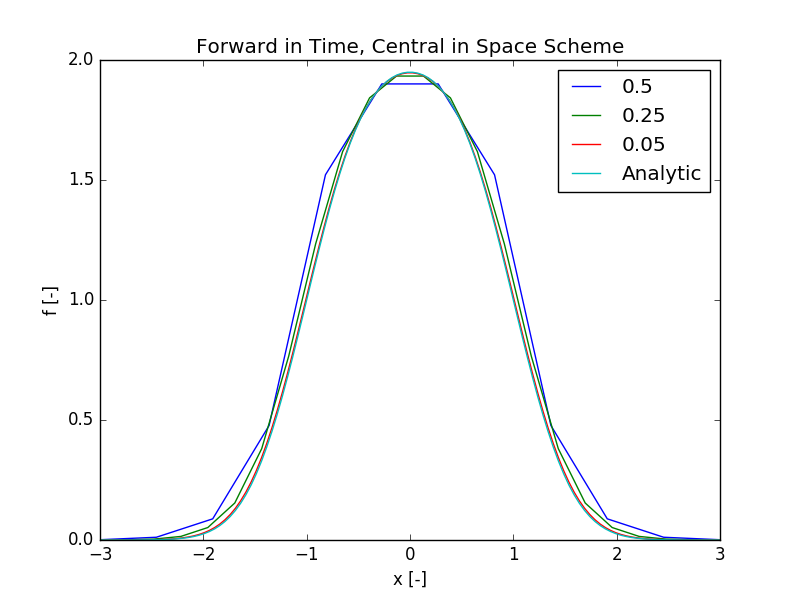
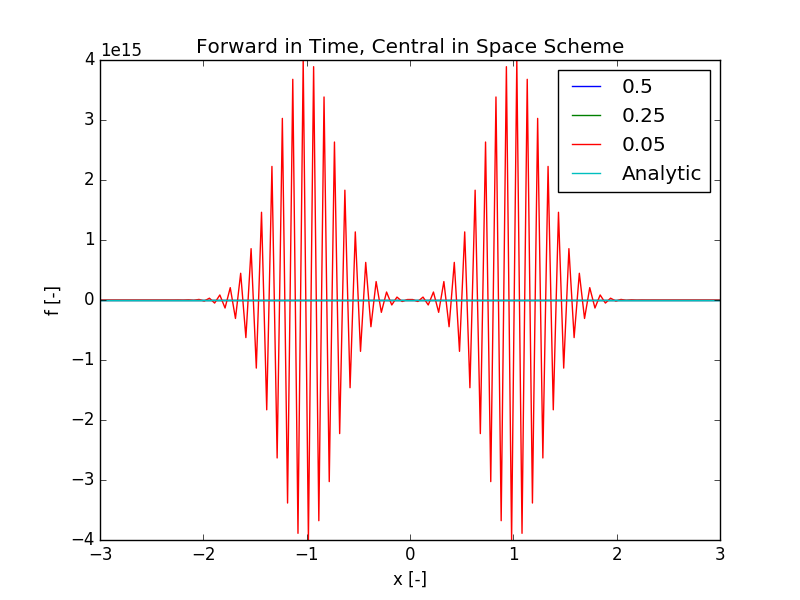
both problems complete/correct

diff --git a/HW05/problem2.py b/HW05/problem2.py
@@ -24,7 +24,11 @@ def make_A_back(n, dx, dt):
     data = np.hstack((c1*e, a1*e, c1*e)).T
     diags = np.array((-1, 0, 1))
     sp_array = scipy.sparse.spdiags(data, diags, n, n).toarray()
-
+    sp_array[0][0] = 1
+    sp_array[0][1:] = 0
+    sp_array[-1][-1] = 1
+    sp_array[-1][:-1] = 0
+    
     return sp_array
 
 def make_b_array_back(n, dt):
@@ -53,7 +57,6 @@ def run_btcs_calc(dx, dt):
     x = np.linspace( domain[0], domain[1], n)
     b_init = make_b_array_back(n, dt)
     A = make_A_back(n, dx, dt)
-
     f.append(solve_matrix(A, b_init)[0])
 
     for i in range(0, len(times)):
@@ -83,8 +86,8 @@ def run_comparison(dt=default_dt):
     fa = get_analytic_solution(x, 1e2)
     
     analytic = (x, fa)
-    forward = (x, f_forward[time_idx])
-    back = (x, f_back[time_idx])
+    forward = (x, f_forward[-1])
+    back = (x, f_back[-1])
 
     return [analytic, forward, back]
 
@@ -94,10 +97,11 @@ def plot(data):
     plt.plot(data[1][0], data[1][1], label='FTCS')
     plt.plot(data[2][0], data[2][1], label='BTCS')
     plt.legend()
-    plt.title("Backward in Time, Central in Space Scheme")
+    plt.title("Comparing FTCS and BTCS to the exact solution\
+               dx = 0.05 dt = 1.0")
     plt.xlabel('x [-]')
     plt.ylabel('f [-]')
-    plt.savefig("problem2.png")
+    plt.savefig("problem2a.png")
     plt.show()
 
 if __name__ == '__main__':

diff --git a/HW05/problem1.py b/HW05/problem1.py
@@ -16,10 +16,13 @@ def make_A(n, alpha):
     """Produce sparse diagonal matrix for algorithm testing.
     """
     e = np.ones((n, 1))
-    data = np.hstack((-alpha * e, (1 + 2*alpha)*e, -alpha * e)).T
+    data = np.hstack((alpha * e, (1 - 2*alpha)*e, alpha * e)).T
     diags = np.array((-1, 0, 1))
     sp_array = scipy.sparse.spdiags(data, diags, n, n).toarray()
-
+    sp_array[0][0] = 1
+    sp_array[0][1:] = 0
+    sp_array[-1][-1] = 1
+    sp_array[-1][:-1] = 0
     return sp_array
 
 def make_b_array(n):
@@ -49,13 +52,12 @@ def run_ftcs_calc(dx, dt=default_dt):
     x = np.linspace( domain[0], domain[1], n)
     b_init = make_b_array(n)
     A = make_A(n, alpha)
-
-    f.append(solve_matrix(A, b_init)[0])
-
-    for i in range(0, len(times)):
-
-        f.append(solve_matrix(A, f[i])[0])
-
+    # set initial conditions and begin forward march
+    f.append(b_init)
+    for i in range(1, len(times)):
+        f1 = f[i-1].dot(A)
+        f.append(f1)
+     
     return f, x
 
 def get_analytic_solution(x, t):
@@ -73,7 +75,7 @@ def run_comparison(dt=default_dt):
     time_idx = int(t_end / dt)
     for dx in dx_vals:
         f, x = run_ftcs_calc(dx)
-        f_data.append(f[time_idx])
+        f_data.append(f[-1])
         x_data.append(x)
     fa = get_analytic_solution(x, 1e2)
     x_data.append(x)
